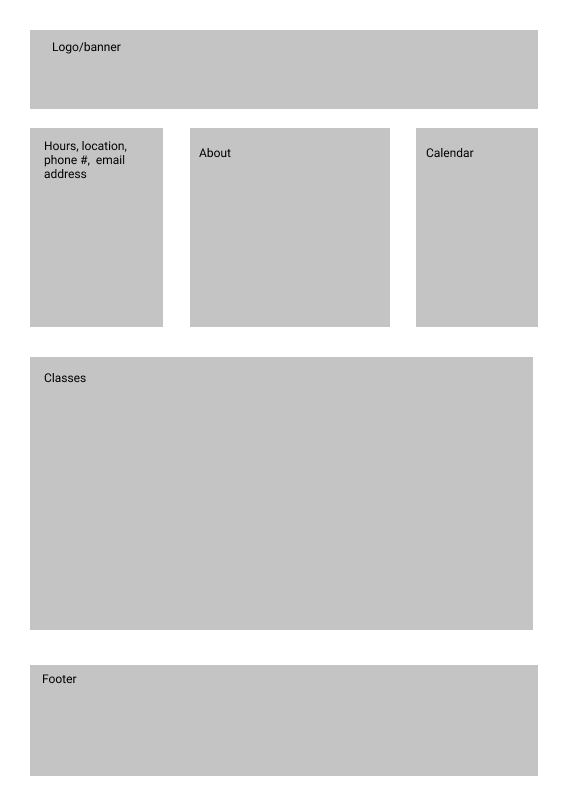
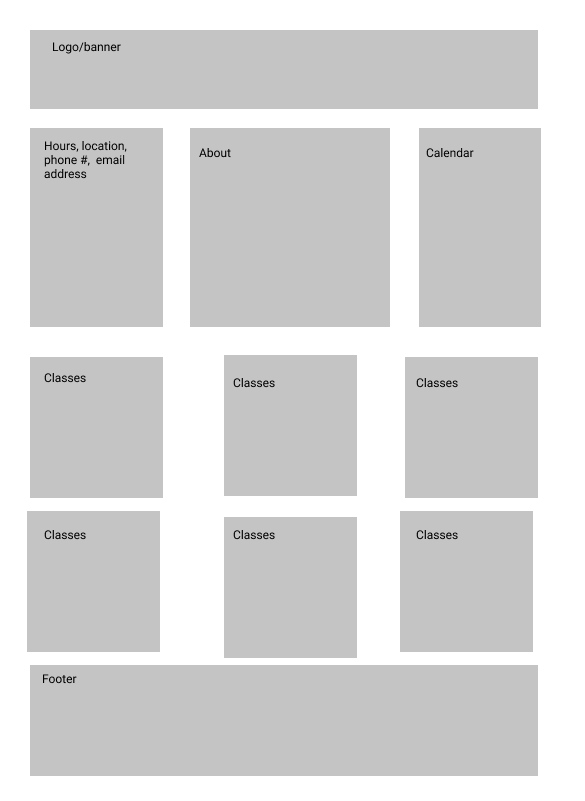
mock up with images

Changed region(s): [[0.0308, 0.437, 0.9231, 0.8427], [0.7077, 0.1561, 0.7385, 0.4057], [0.8923, 0.1873, 0.9231, 0.4057]]

diff --git a/Lesson-07/about.html b/Lesson-07/about.html
@@ -1,0 +1,69 @@
+<!DOCTYPE html>
+<html>
+<head>
+<title>Straight to the Point Archery</title>
+<link rel="stylesheet" href="styles/styles.css">
+</head>
+
+<body>
+
+<div id="wrapper">
+<h1>Straight to the Point Archery</h1>
+<header>
+
+
+<a href="#home"><img src="images/color-logo.png"></a>
+
+    
+</header>
+<nav>
+<ul>
+<li>Home</li>   
+<li>Instructors</li>
+<li>Calendar</li>
+</ul>   
+</nav>
+<section class=main-about>
+<img class="nguyen-pic" src="images/nguyen-img.png">
+<p class="nguyen-para">Giap Nguyen started Straight to the Point Archery in 2005. He's an avid and accomplished archer himself, having competed with the United States Archery Team in the 2000 Summer Olympics. He has three children, and  started Straight to the Point in part because he was not satisfied with the archery eduction options for them in Tacoma. After The Hunger Games books and movies came out, he noticed a surge in popularity of archery among young people, especially young women, and the business has been booming ever since.</p>
+    </section>
+<section class="about-holder">
+<section class="abouts">
+<img src="images/jenkins-img.png">
+<p>Derek Jenkins: Derek is a Washington native and an experienced outdoorsman with many years hunting, fishing, skiing, canoeing, archery, shooting and minimalistic camping. His skillful mastery of bushcraft and wilderness survival knowledge helps define his character. He enjoys handcrafting his own long bows, flint knapped primitive arrows and making custom leather products.</p>
+    
+
+       
+</section><!--end abouts 1-->
+<section class="abouts">
+<img src="images/smith-img.png">
+<p>Amy Smith: Amy truly has a passion for archery. She comes from a long line of hunters, fisherman, and trappers of Canada. Amy  places a strong emphasis on safety and is enthusiastic about teaching. Amy also loves fitness, and  has been a YMCA group exercise and personal trainer for over 18 years.</p>
+
+    
+    
+    
+    
+</section><!--end abouts 2-->
+<section class="abouts">
+<img src="images/lee-img.png">
+<p>Nathan Lee: Nathan is an USA Archery Certified Level 3 NTS – Coach and has been teaching archery since 2009. He has been interested in archery since he nocked his first arrow while a Boy Scout at Scout camp. Nathan has many years of experience teaching people of all ages, experience gained as a Martial Arts Instructor and Studio Manager.</p> 
+    
+    
+</section><!--end abouts 3-->
+
+    
+    
+</section><!--end about-holder-->
+<p><strong>Nondiscriminatory Policy:</strong></p>
+<p>Next Step Archery admits students of any race, gender presentation, sexuality, religion, national origin or ethnic origin to all rights, privileges, programs and activities available to students at the school. We do not discriminate in administration of our educational policies, admission policies and other school administered programs. All students are welcome and valuable members of our community.</p>
+
+<footer>
+<img src="images/foot-img.jpg">
+
+
+</footer>
+</div><!--end wrapper-->
+
+</body>
+
+</html>

diff --git a/Lesson-07/index.html b/Lesson-07/index.html
@@ -26,11 +26,12 @@
 
 <section class="box-holder">
 <aside>
-<p>Straight to the Point Archery
-528 Nock Point Ln
-Tacoma, WA 98412
-archery-education@example.com
-(253)555-1010</p>
+<iframe src="https://www.google.com/maps/embed?pb=!1m16!1m12!1m3!1d10847.473483065003!2d-122.44875476388262!3d47.18001370131296!2m3!1f0!2f0!3f0!3m2!1i1024!2i768!4f13.1!2m1!1sNock%20Point%20Ln%20Tacoma%2C%20WA%2098412!5e0!3m2!1sen!2sus!4v1606435839302!5m2!1sen!2sus" width="200" height="150" frameborder="0" style="border:0;" allowfullscreen="" aria-hidden="false" tabindex="0"></iframe>
+<p>Straight to the Point Archery</p>
+<p>528 Nock Point Ln
+Tacoma, WA 98412</p>
+<address>archery-education@example.com</address>
+<p>(253)555-1010</p>
 </aside>
 <main>
 <p>Straight to the Point Archery is a non profit archery education center founded in 2005 by Giap Nguyen.  Our state of the art educational and training facility incorporates detailed technical video analysis combined with generations of archery experience from certified coaches and instructors. Click <a href="#about">here</a> for more information about our school.

diff --git a/Lesson-07/styles/styles.css b/Lesson-07/styles/styles.css
@@ -15,6 +15,9 @@ header {
     display:flex;
     justify-content: center;
 }
+p {
+    margin-top:20px;
+}
 main {
     width:300px;
     margin-right:20px;
@@ -44,6 +47,26 @@ h2 {
 .classes {
     width:300px;
     margin-left:20px;
+    border:1px solid black;
+}
+.main-about {
+    border-bottom: 1px solid black;
+    margin-bottom:20px;
+}
+.nguyen-pic {
+    display:inline;
+}
+.nguyen-para {
+    display:inline;
+}
+.about-holder {
+    display:flex;
+    flex-direction:row;
+    flex-wrap: wrap;
+}
+.abouts {
+    width:300px;
+    margin-left: 20px;
 }
 footer {
 /*    clear:both;*/
